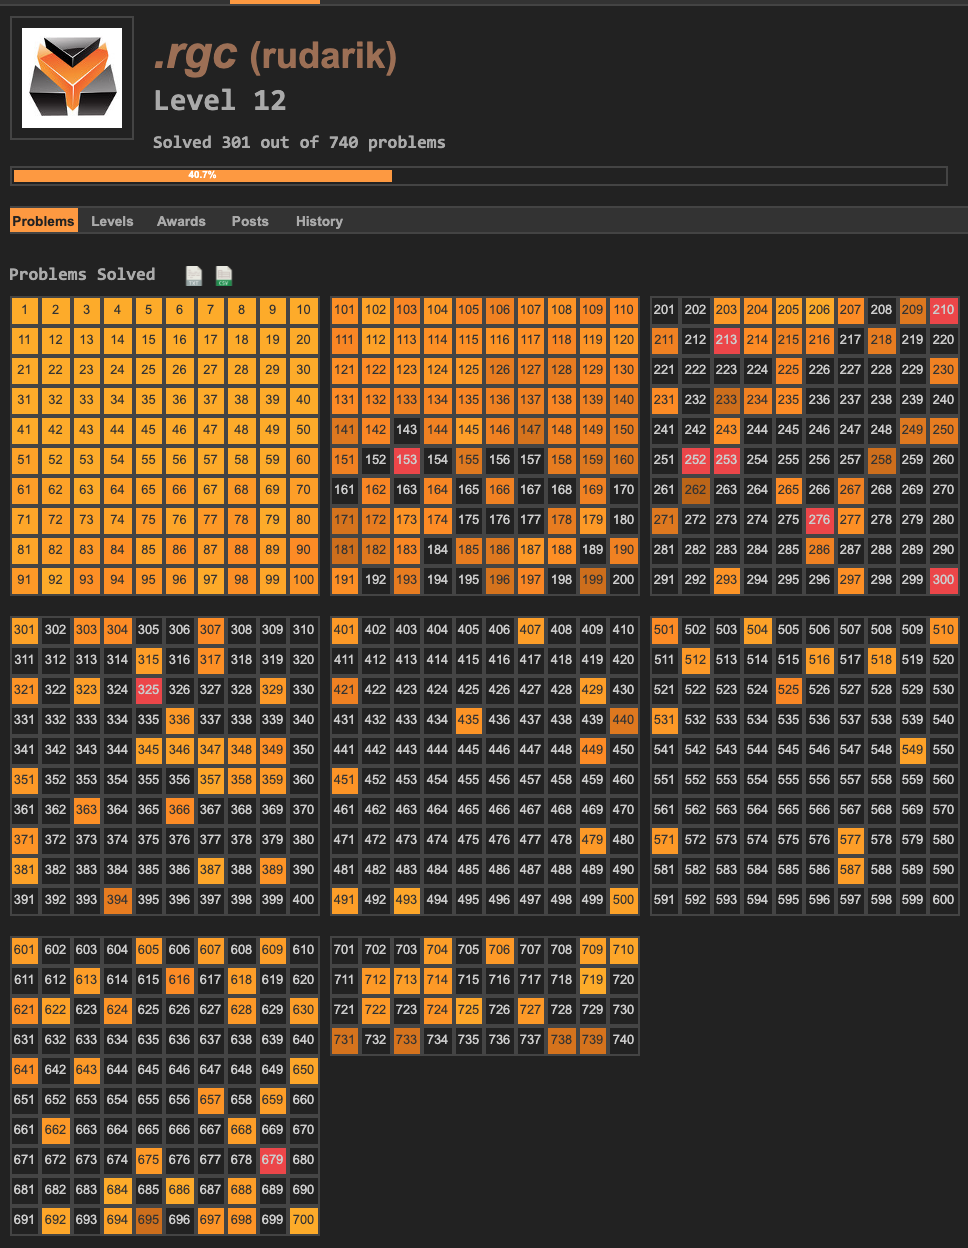
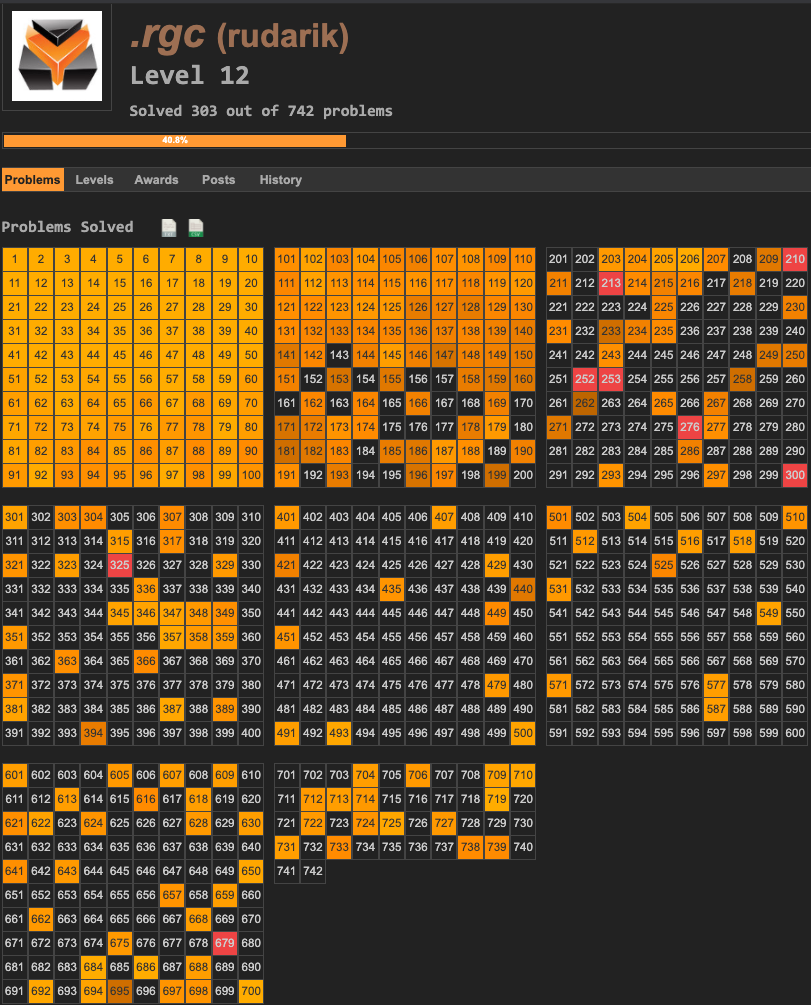
solved 153 and 679

diff --git a/README.md b/README.md
@@ -97,7 +97,9 @@ My current progress:
     * Problem 249: "Prime Subset Sums"
     * Problem 250: "250250"
     * Problem 329: "Prime Frog"
+    * Problem 679: "Freefarea"
     * Problem 706: "3-Like Numbers"
+    
 
 * [Euclidean Algorithm](https://en.wikipedia.org/wiki/Euclidean_algorithm)
 
@@ -119,6 +121,10 @@ My current progress:
     * Problem 662: "Fibonacci Paths"
 
 * [Gamma Function](https://en.wikipedia.org/wiki/Gamma_function)
+
+* [Gaussian Integer](https://en.wikipedia.org/wiki/Gaussian_integer)
+
+    * Problem 153: "Investigating Gaussian Integers"
 
 * [Generating Function](https://en.wikipedia.org/wiki/Generating_function)
 
